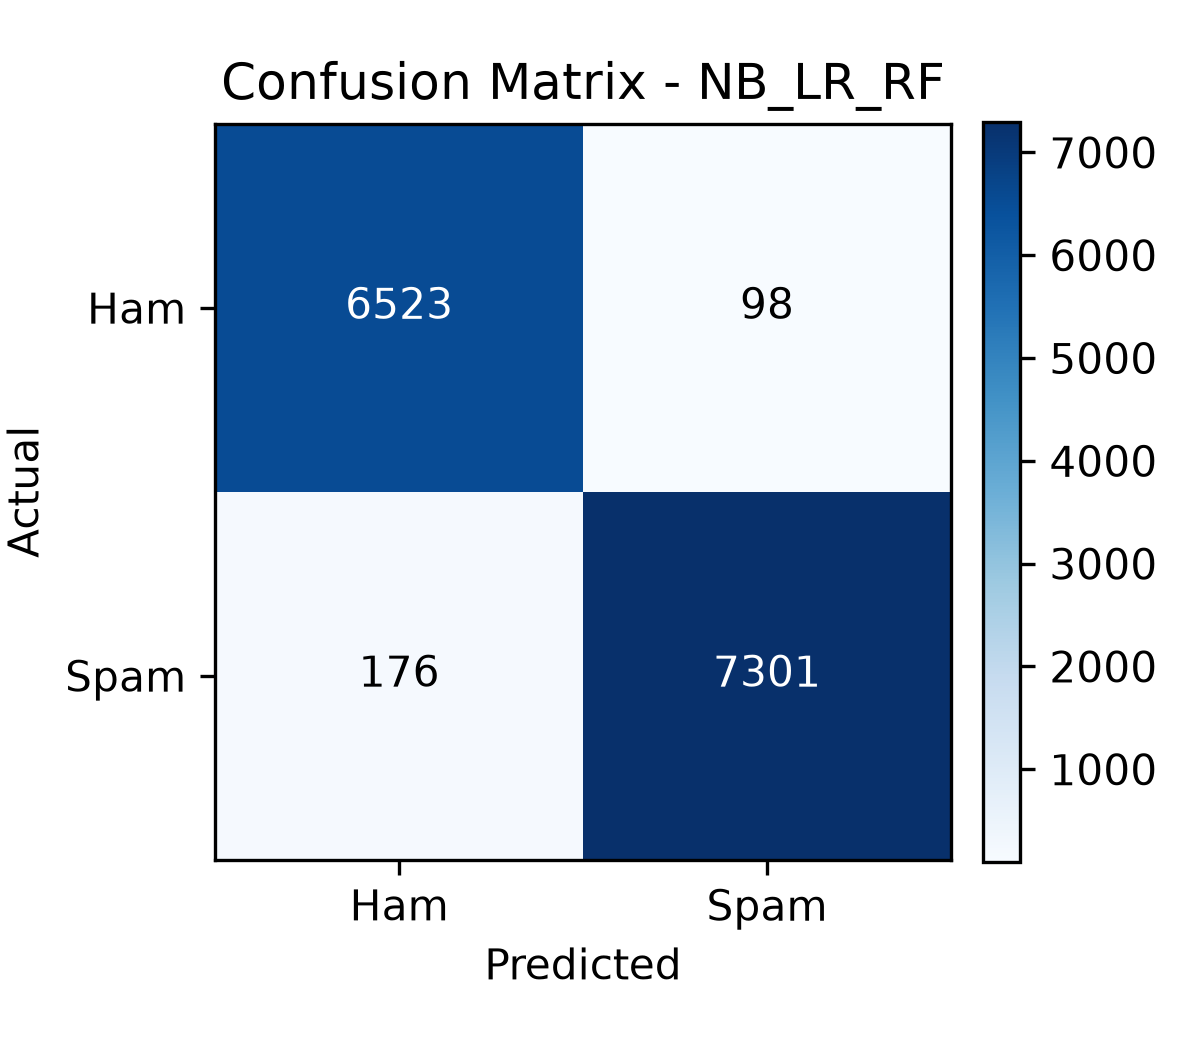
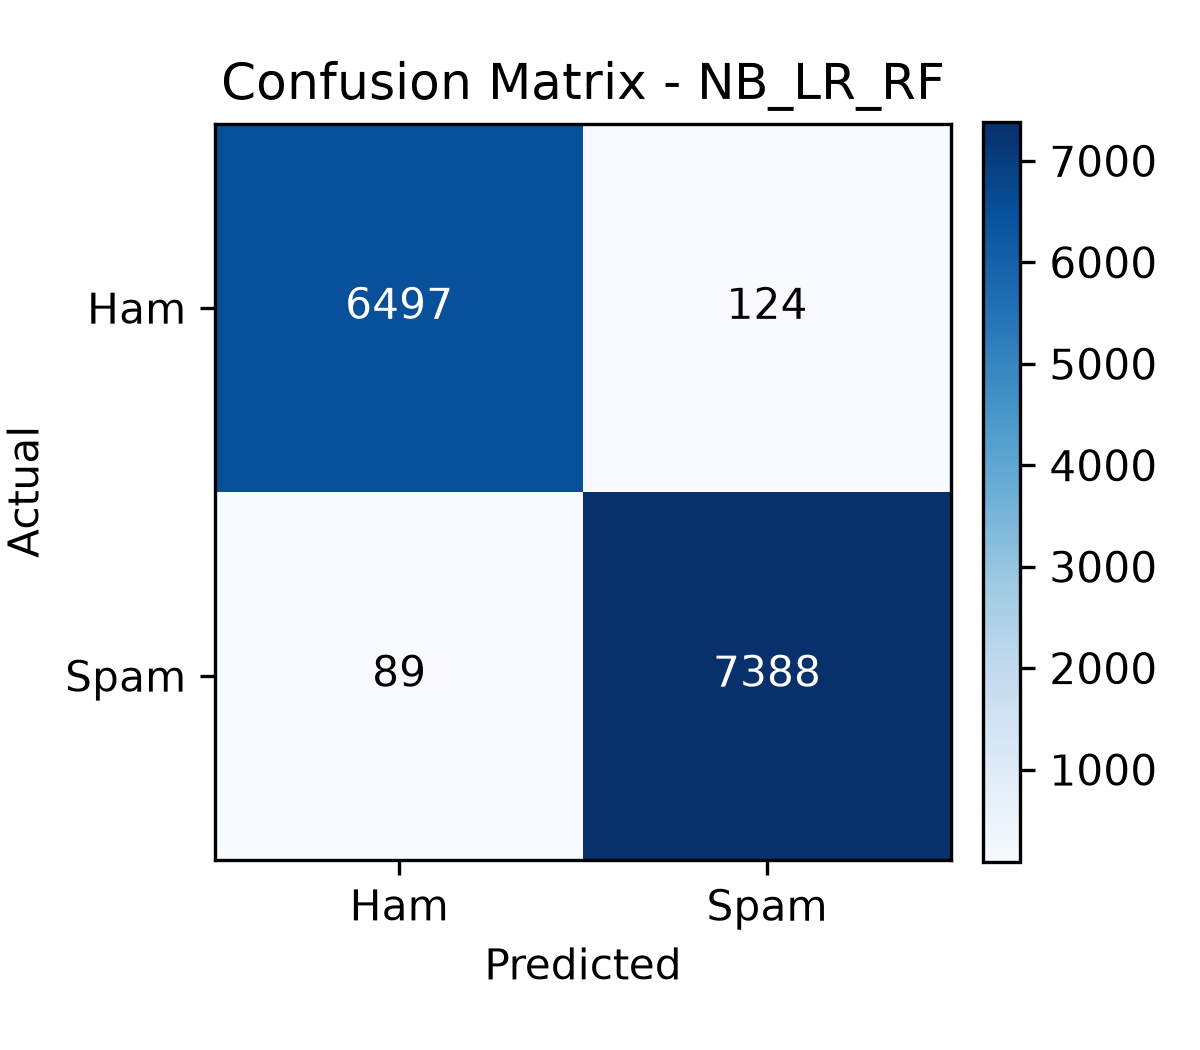
fix: adds tuned nb_lr_rf code and graphs

diff --git a/src/models/nb_lr_rf.py b/src/models/nb_lr_rf.py
@@ -30,29 +30,29 @@ X_train, X_test, y_train, y_test = load_split(SPAM_CSV)
 X_train_text = X_train["Message"].apply(lambda t: clean_text_heavy(t, ps, stop_words))
 X_test_text = X_test["Message"].apply(lambda t: clean_text_heavy(t, ps, stop_words))
 
-vectorizer = TfidfVectorizer(max_features=5000, ngram_range=(1, 2))
+vectorizer = TfidfVectorizer(max_features=5000, ngram_range=(1, 1))
 X_train_vec = vectorizer.fit_transform(X_train_text)
 X_test_vec = vectorizer.transform(X_test_text)
 
 results = []
 
 # --- Naive Bayes ---
-nb = MultinomialNB()
+nb = MultinomialNB(alpha=0.1)
 nb.fit(X_train_vec, y_train)
 results.append(evaluate_model("Naive Bayes", y_test, nb.predict(X_test_vec)))
 
 # --- Logistic Regression ---
-lr = LogisticRegression(max_iter=1000)
+lr = LogisticRegression(C=10.0, max_iter=1000)
 lr.fit(X_train_vec, y_train)
 results.append(evaluate_model("Logistic Regression", y_test, lr.predict(X_test_vec)))
 
 # --- Random Forest ---
-rf = RandomForestClassifier(n_estimators=200, random_state=42, n_jobs=-1)
+rf = RandomForestClassifier(n_estimators=200, max_depth=30, random_state=42, n_jobs=-1)
 rf.fit(X_train_vec, y_train)
 results.append(evaluate_model("Random Forest", y_test, rf.predict(X_test_vec)))
 
 # --- Hybrid: NB + LR + RF soft-voting ensemble ---
-hybrid = VotingClassifier(estimators=[("nb", nb), ("lr", lr), ("rf", rf)], voting="soft")
+hybrid = VotingClassifier(estimators=[("nb", nb), ("lr", lr), ("rf", rf)], voting="soft", weights=(1, 2, 1))
 hybrid.fit(X_train_vec, y_train)
 y_pred = hybrid.predict(X_test_vec)
 results.append(evaluate_model("NB + LR + RF Hybrid", y_test, y_pred))
